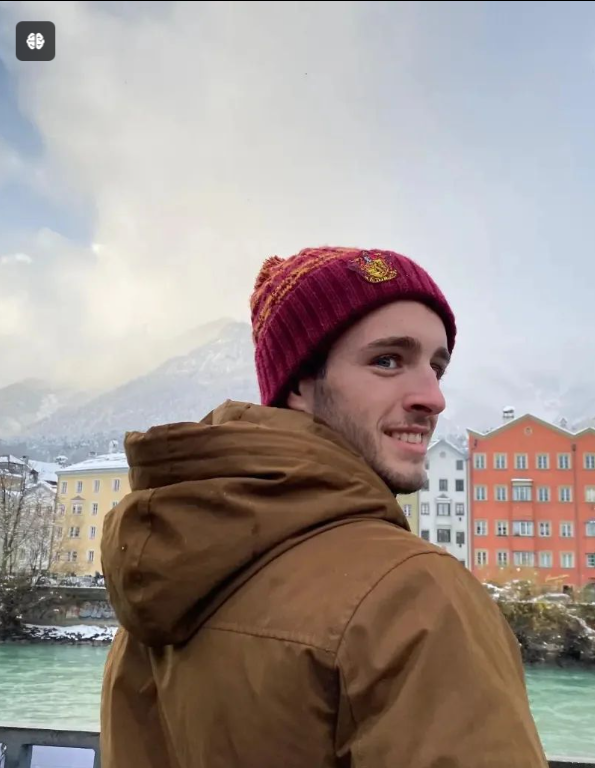
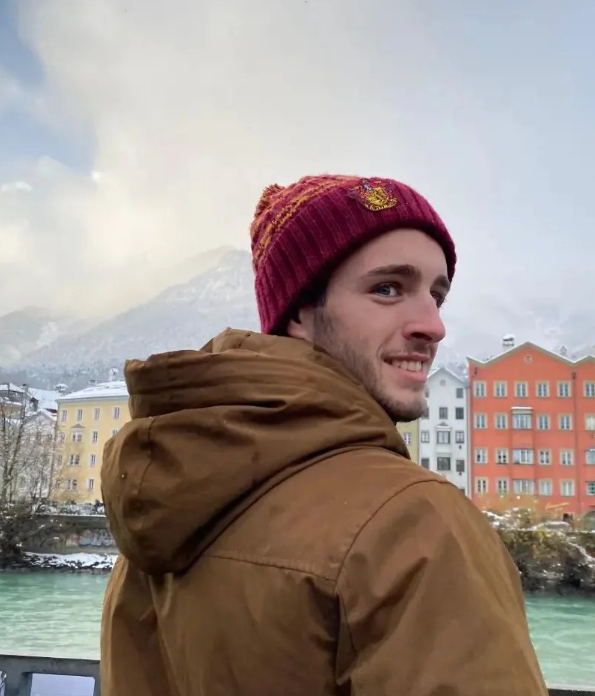
update design about section

diff --git a/src/components/Section/Section.css b/src/components/Section/Section.css
@@ -71,10 +71,53 @@
   animation: fadeOut 3s forwards; /* Animação de saída mais lenta */
 }
 
-.about-div img {
-  width: 32%;
-  border-radius: 10%;
-  justify-self: flex-end;
+.about-div .card {
+  position: relative;
+  width: 360px;
+  height: 325px;
+  background-image: url("../../images/perfil_image.png");
+   background-size: cover;
+  background-position: center;
+  display: flex;
+  flex-direction: column;
+  justify-content: end;
+  padding: 12px;
+  gap: 12px;
+  border-radius: 10px;
+  cursor: pointer;
+}
+
+.about-div .card::before {
+  content: '';
+  position: absolute;
+  inset: 0;
+  left: -5px;
+  margin: auto;
+  width: 250px;
+  height: 360px;
+  border-radius: 10px;
+  background: linear-gradient(-45deg, #e81cff 0%, #40c9ff 100% );
+  z-index: -10;
+  pointer-events: none;
+  transition: all 1.5s cubic-bezier(0.175, 0.885, 0.32, 1.275);
+}
+
+.about-div .card::after {
+  content: "";
+  z-index: -1;
+  position: absolute;
+  inset: 0;
+  background: linear-gradient(-45deg, #fc00ff 0%, #00dbde 100% );
+  transform: translate3d(0, 0, 0) scale(0.95);
+  filter: blur(20px);
+}
+
+.about-div .card:hover::after {
+  filter: blur(30px);
+}
+
+.about-div .card:hover::before {
+  transform: rotate(-90deg) scaleX(1.44) scaleY(0.69);
 }
 
 .about-div div {
@@ -91,6 +134,24 @@
   font-size: 14px;
 }
 
+.about-div div .about-social-links i{
+  font-size: 30px;
+  margin: 30px;
+  margin-left: 0px;
+}
+
+.about-div div .about-social-links a{
+  text-decoration: none;
+  color: darkgray;
+}
+
+.about-div div .about-social-links i:hover{
+  text-decoration: none;
+  background: linear-gradient(-30deg, #fc00ff 10%, #00dbde 100%);
+  -webkit-background-clip: text;
+  -webkit-text-fill-color: transparent;
+}
+
 /* Definindo as animações */
 @keyframes fadeIn {
   from { opacity: 0; transform: translateY(-80px); }
@@ -100,4 +161,12 @@
 @keyframes fadeOut {
   from { opacity: 1; transform: translateY(0); }
   to { opacity: 0; transform: translateY(80px); }
+}
+
+.skills-social-links{
+  display: none;
+}
+
+.contact-social-links{
+  display: none;
 }

diff --git a/src/components/About/About.tsx b/src/components/About/About.tsx
@@ -1,8 +1,5 @@
 import Nav from '../Nav/Nav';
 import Section from '../Section/Section';
-
-import perfil from "../../images/perfil_image.png";
-
 import "./About.css";
 
 
@@ -10,9 +7,9 @@ const About = () => (
     <section style={{ background: "#222", color: "#fff" }}>
       <Nav title="Home" />
       <div className='about'>
-        <Section title="Tiago Pedro" text="I'm passionate about crafting engaging content that captivates and inspires audiences worldwide." imageSrc={perfil} className="about"/>
-        <Section title="Skills" text="My expertise spans content writing, copyediting, SEO optimization, and social media management, delivering exceptional results." imageSrc="" className="skills"/>
-        <Section title="Contact" text="Get in touch to book me and start building your dream e-commerce product today." imageSrc="" className="contact"/>
+        <Section title="Tiago Pedro" text="I'm passionate about crafting engaging content that captivates and inspires audiences worldwide." className="about"/>
+        <Section title="Skills" text="My expertise spans content writing, copyediting, SEO optimization, and social media management, delivering exceptional results." className="skills"/>
+        <Section title="Contact" text="Get in touch to book me and start building your dream e-commerce product today." className="contact"/>
       </div>
     </section>
 );

diff --git a/src/components/Section/Section.tsx b/src/components/Section/Section.tsx
@@ -4,11 +4,10 @@ import './Section.css'; // Certifique-se de criar e importar seu arquivo CSS
 interface SectionProps {
   title: string;
   text: string;
-  imageSrc: string;
   className: string;
 }
 
-const Section: React.FC<SectionProps> = ({ title, text, imageSrc, className }) => {
+const Section: React.FC<SectionProps> = ({ title, text, className }) => {
   const [isVisible, setIsVisible] = useState(false);
   const sectionRef = useRef<HTMLDivElement>(null);
 
@@ -46,8 +45,14 @@ const Section: React.FC<SectionProps> = ({ title, text, imageSrc, className }) =
         <div>
           <h2>{title}</h2>
           <p>{text}</p>
+          <div className={`${className}-social-links`}>
+            <a href="https://github.com/TiagoPedrotkd"><i className='ai-github-fill'></i></a>
+            <a href="https://www.linkedin.com/in/tiago-soares-5b1ab4282"><i className='ai-linkedin-box-fill'></i></a>
+            <a href="https://wa.me/351965619393"><i className='ai-whatsapp-fill'></i></a>
+          </div>
         </div>
-        <img src={imageSrc} alt={title} />
+        <div className='card'>
+        </div>
       </div>
     </section>
   );
